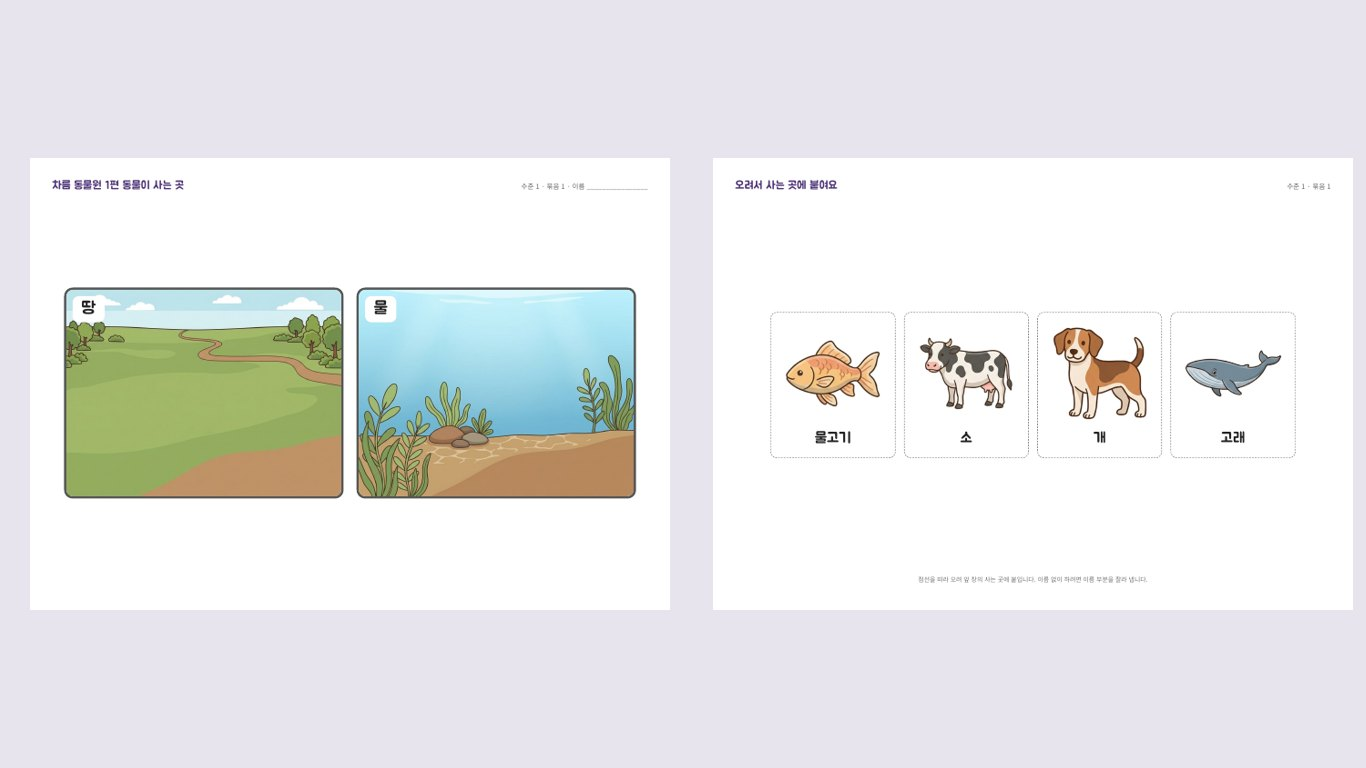
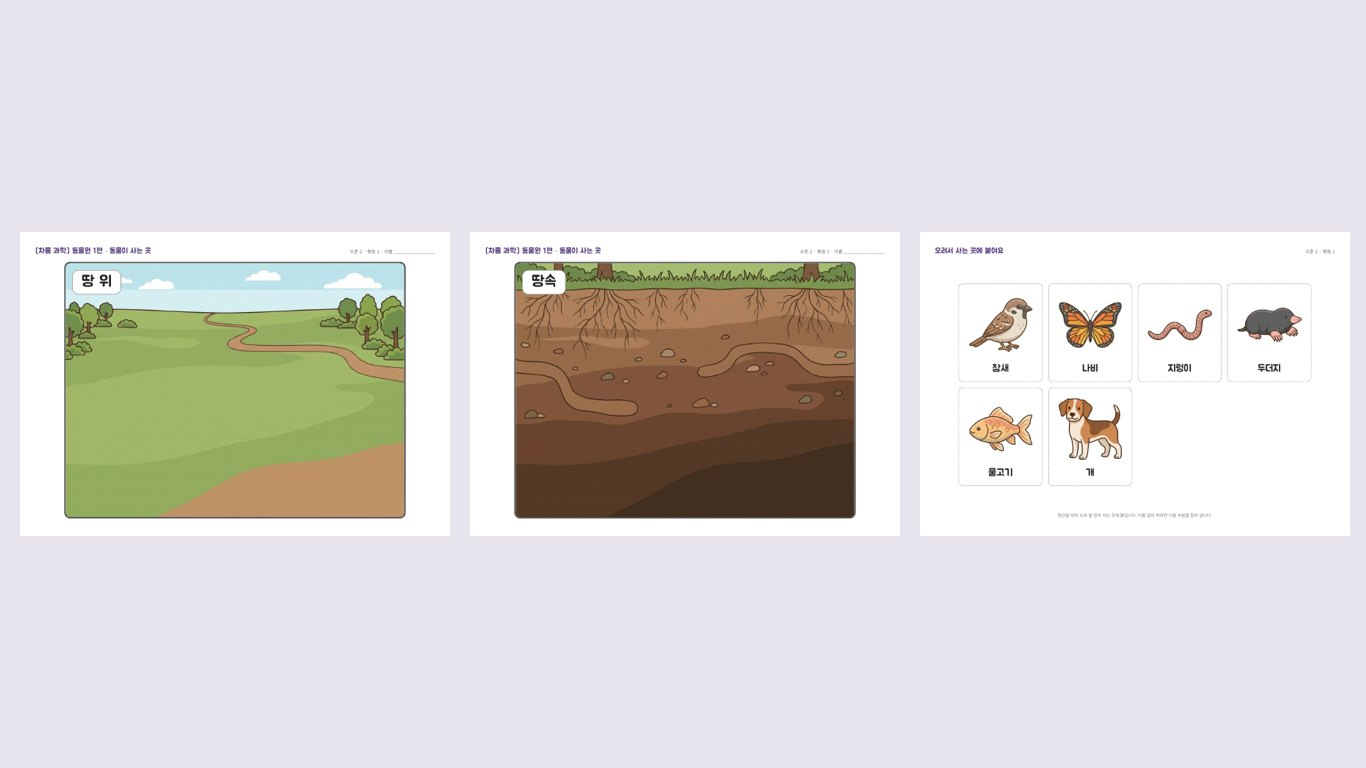
008 활동지: 사는 곳마다 A4 한 장을 꽉 채운 장면(오려 붙일 수 있게), 자세한 설명·캡처 13
Claude-Session: https://claude.ai/code/session_01Bi7SMCehBmBV6U22MpX8pE

diff --git a/008/animal-home.html b/008/animal-home.html
@@ -1051,9 +1051,10 @@ function sheetHTML(lv,plan){
   return sheetHead()+body+'<script>window.onload=function(){setTimeout(function(){window.print();},600);};<\/script></body></html>';
 }
 function sheetPages(lv,bd){
-  const n=bd.places.length, pw=n<=2?'134mm':'110mm', lab=LV[lv].name+' · '+esc(bd.label);
-  let h='<div class="pg"><div class="hd"><b>[차름 과학] 동물원 1편 · 동물이 사는 곳</b><span>'+lab+' · 이름 ________________</span></div><div class="places" style="grid-template-columns:repeat(2,'+pw+')">'
-   +bd.places.map(p=>'<div class="pl"><img src="'+HAB+PL[p].scene+'.jpg"><span style="font-size:'+(n<=2?'30':'22')+'px">'+PL[p].label+'</span></div>').join('')+'</div></div>';
+  const lab=LV[lv].name+' · '+esc(bd.label);
+  /* 사는 곳마다 A4 한 장을 꽉 채운 장면(동물을 오려 붙일 수 있게) */
+  let h=bd.places.map(p=>'<div class="pg"><div class="hd"><b>[차름 과학] 동물원 1편 · 동물이 사는 곳</b><span>'+lab+' · 이름 ________________</span></div>'
+   +'<div class="one"><div class="pl"><img src="'+HAB+PL[p].scene+'.jpg"><span>'+PL[p].label+'</span></div></div></div>').join('');
   const it=shuffle(bd.items); for(let i=0;i<it.length;i+=8)
     h+='<div class="pg"><div class="hd"><b>오려서 사는 곳에 붙여요</b><span>'+lab+'</span></div><div class="cut">'+it.slice(i,i+8).map(x=>'<div class="ac"><img src="'+pic(x.a)+'"><div>'+esc(x.a)+'</div></div>').join('')+'</div><div class="note">점선을 따라 오려 앞 장의 사는 곳에 붙입니다. 이름 없이 하려면 이름 부분을 잘라 냅니다.</div></div>';
   return h;
@@ -1067,7 +1068,8 @@ function sheetHead(){
    +'.hd{display:flex;justify-content:space-between;align-items:baseline;font-size:12px;color:#666;margin-bottom:4mm}.hd b{font-family:Jua,sans-serif;font-weight:400;font-size:20px;color:#4E3478}'
    +'.places{flex:1;display:grid;grid-template-columns:repeat(2,'+pw+');justify-content:center;align-content:center;gap:6mm}'
    +'.pl{border:1.2mm solid #555;border-radius:4mm;overflow:hidden;position:relative}.pl img{display:block;width:100%;aspect-ratio:4/3;object-fit:cover}'
-   +'.pl span{position:absolute;left:3mm;top:3mm;background:#fff;border-radius:3mm;padding:1mm 4mm;font-family:Jua,sans-serif;font-size:'+(n<=2?'30':'22')+'px}'
+   +'.one{flex:1;display:flex;align-items:center;justify-content:center;min-height:0}.one .pl{height:100%;aspect-ratio:4/3;max-width:100%}.one .pl img{width:100%;height:100%;aspect-ratio:auto;object-fit:cover}'
+   +'.pl span{position:absolute;left:5mm;top:5mm;background:#fff;border-radius:4mm;padding:1.5mm 6mm;font-family:Jua,sans-serif;font-size:40px;box-shadow:0 0 0 .4mm #999}'
    +'.cut{flex:1;display:grid;grid-template-columns:repeat(4,58mm);justify-content:center;align-content:center;gap:4mm}'
    +'.ac{border:.5mm dashed #888;border-radius:3mm;height:68mm;display:flex;flex-direction:column;align-items:center;justify-content:center;padding:3mm}'
    +'.ac img{width:48mm;height:48mm;object-fit:contain}.ac div{font-family:Jua,sans-serif;font-size:26px;margin-top:2mm}'

diff --git a/008/animal-home_guide.html b/008/animal-home_guide.html
@@ -143,7 +143,7 @@ li{margin:3px 0}
 
 <section id="s9"><h2><span class="n">9</span>활동지 (A4)</h2>
 <img src="https://shim-sung-hyun.github.io/web_app/008/animal-home13.jpg" alt="활동지">
-<p class="cap">▲ A4 가로 2쪽: 1쪽 사는 곳 장면(이름 칸), 2쪽 오려 붙일 동물</p>
+<p class="cap">▲ A4 가로: 사는 곳마다 한 장씩 장면을 꽉 채운 쪽(이름 칸) + 오려 붙일 동물(8마리씩 한 쪽)</p>
 <p>설정 ③ 또는 선생님 메뉴의 <b>활동지</b>를 누르면 지금 묶음의 활동지가 새 창에서 인쇄됩니다. 화면에서 배운 것을 종이에서 오려 붙이며 다시 해 봅니다. 동물 이름을 빼고 하려면 이름 부분을 잘라 냅니다. 새 창이 열리지 않으면 이 사이트의 팝업을 허용해 주십시오.</p>
 </section>
 
